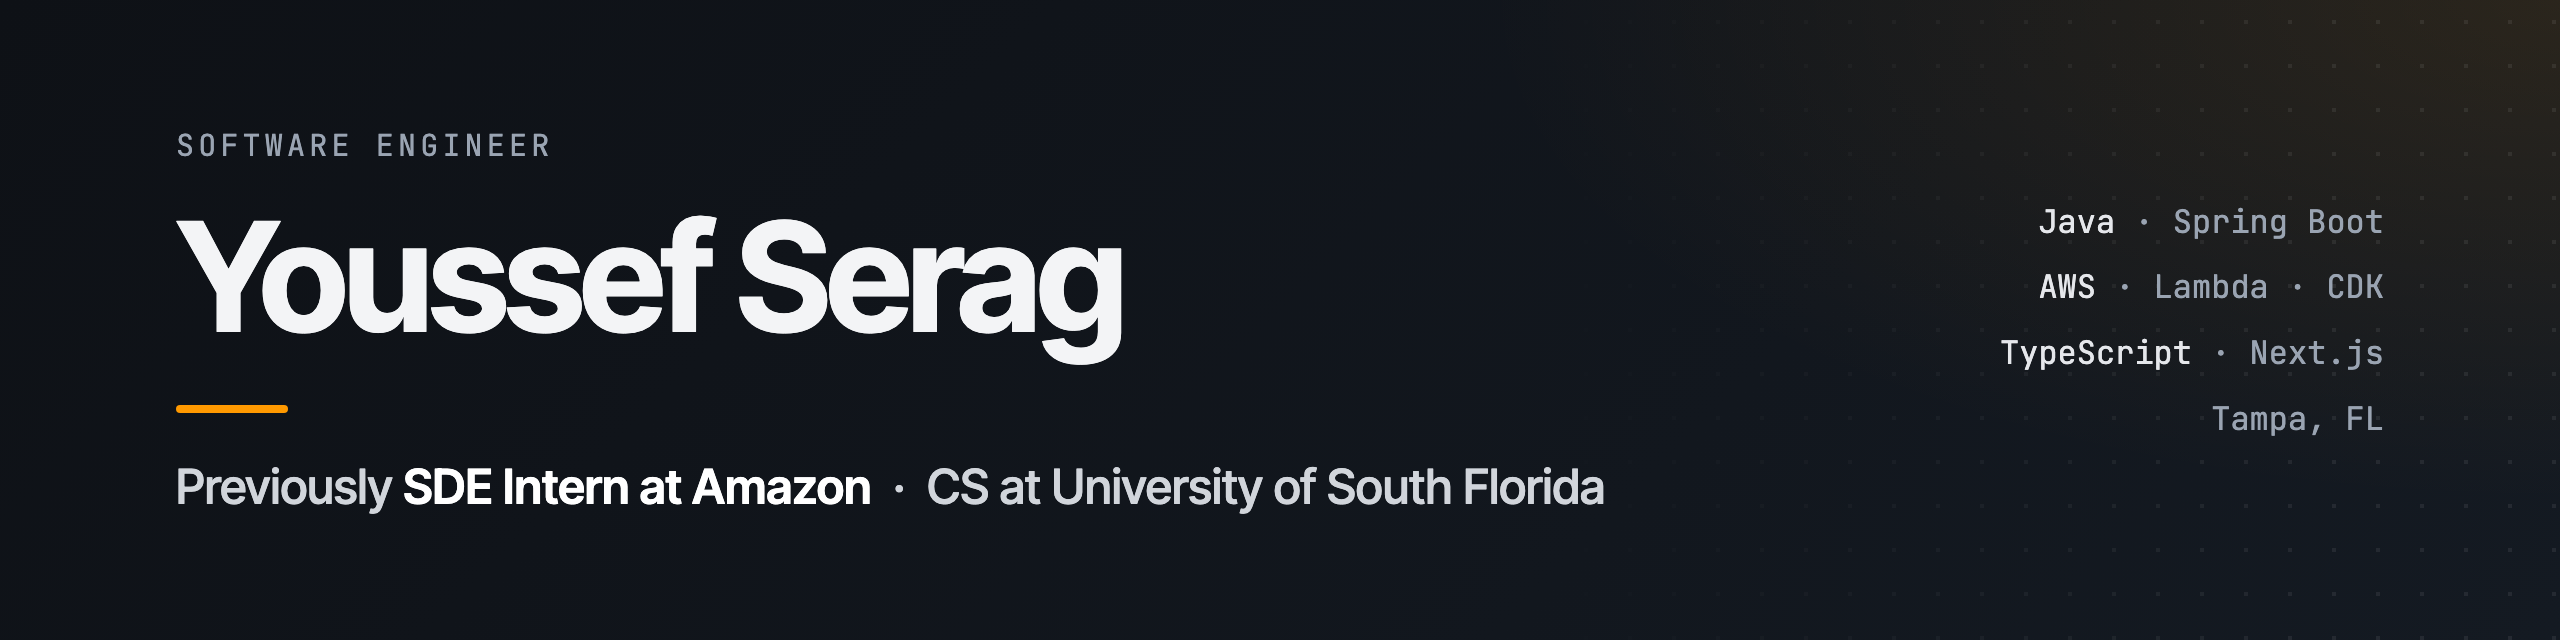
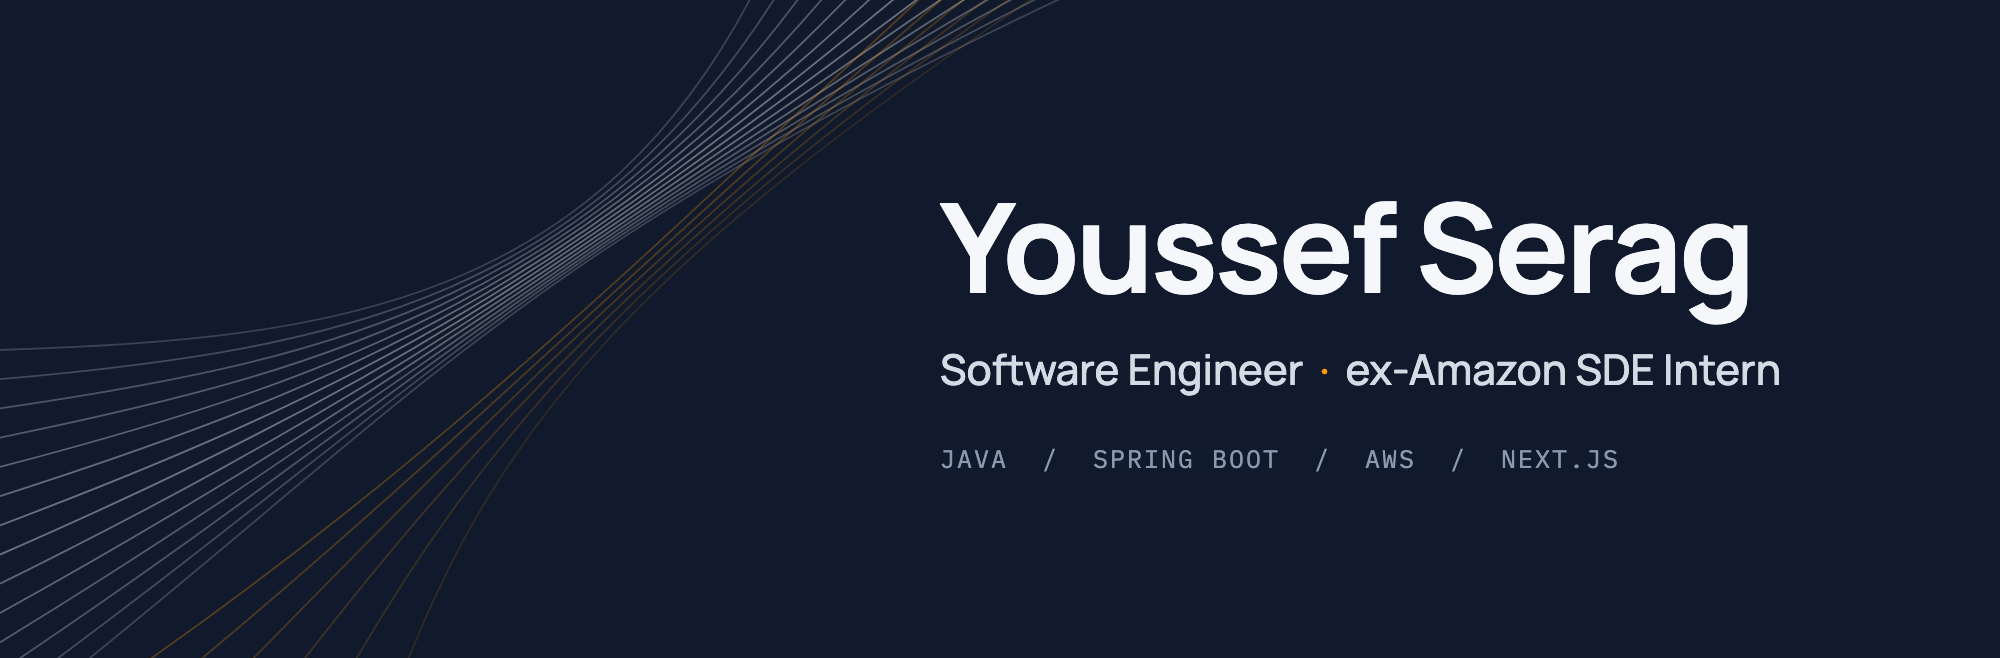
Restyle profile README after reference layout

diff --git a/README.md b/README.md
@@ -1,13 +1,60 @@
-<img src="./assets/banner.png" alt="Youssef Serag, Software Engineer" width="100%" />
-
 <p align="center">
-  <a href="https://linkedin.com/in/youssef-serag">LinkedIn</a> &nbsp;·&nbsp;
-  <a href="mailto:youssefserag7@gmail.com">youssefserag7@gmail.com</a> &nbsp;·&nbsp;
-  <a href="./Youssef_Serag_Resume.pdf">Download resume (PDF)</a>
+  <img src="./assets/banner.png" alt="Youssef Serag, Software Engineer, ex-Amazon SDE Intern" width="100%" />
 </p>
 
+<p align="center">
+  <a href="https://www.linkedin.com/in/youssef-serag"><img src="https://img.shields.io/badge/LinkedIn-111A2C?style=for-the-badge&logo=linkedin&logoColor=white" alt="LinkedIn" /></a>
+  <a href="mailto:youssefserag7@gmail.com"><img src="https://img.shields.io/badge/Email-1F6FEB?style=for-the-badge&logo=gmail&logoColor=white" alt="Email" /></a>
+  <a href="./Youssef_Serag_Resume.pdf"><img src="https://img.shields.io/badge/Resume-FF9900?style=for-the-badge&logo=readdotcv&logoColor=white" alt="Resume" /></a>
+</p>
+
+<p align="center">
+  <img src="https://readme-typing-svg.demolab.com?font=IBM+Plex+Mono&weight=600&size=24&duration=3500&pause=1200&color=FF9900&center=true&vCenter=true&width=720&lines=%24+building+backend+systems+that+scale.;%24+ex-Amazon+SDE+Intern.+350K+%E2%86%92+25K+incident+emails.;%24+Java+%C2%B7+Spring+Boot+%C2%B7+AWS.;%24+TA+for+140+Data+Structures+students." alt="Building backend systems that scale." />
+</p>
+
+## Hey, I'm Youssef
+
+I'm a Computer Science student at the **University of South Florida** (graduating December 2026), a former **Software Development Engineer Intern at Amazon**, and a **Teaching Assistant for Data Structures**. I like backend and cloud work most: services that handle real traffic, infrastructure defined as code, and tests that catch problems before users do.
+
+Right now I'm especially interested in:
+
+- backend services in Java and Spring Boot with clean, layered architecture
+- serverless and event-driven systems on AWS (Lambda, SQS, DynamoDB), deployed with CDK
+- full-stack products that use LLMs reliably, with validated, structured output
+- teaching data structures and helping other students get into software engineering
+
+## Highlights
+
+- 📦 **Amazon, SDE Intern**: built the List Price Nudging Tool, fixing duplicate seller emails across **14M** outdated prices and cutting incident email volume from **350K to 25K**
+- ☁ **AWS in production**: rewrote core **Lambda** functions in Java, deployed infrastructure with **CDK** across dev, beta, and prod, and built a CI/CD pipeline with JUnit/Mockito and security checks
+- 🧑🏫 **Teaching Assistant**: supporting a **140-student** Data Structures course at USF
+- 🚀 **Tech Lead, Google Developer Student Club**: helped organize **HackUSF** (300+ participants) and led Java workshops
+
+## Featured Projects
+
+| Project | What it is |
+| --- | --- |
+| [**PediaTrack**](https://github.com/seragy/pediatrack) | Clinician-guided patient recovery platform. Spring Boot backend with role-based access, rule-based symptom trend flags, and versioned REST APIs over PostgreSQL. |
+| [**PrepWise**](https://github.com/seragy/ai_mock_interviews) | AI voice interview platform with real-time interviews via VAPI and Gemini feedback. Zod validation cut malformed AI responses by **95%**. |
+| [**Bellini Classes**](https://github.com/seragy/bellini-classes) | Course scheduling platform for USF's scheduling committee, with a 9-rule data audit, semester comparison, and waitlist analysis. |
+| **The Last of Us: Legacy** | Turn-based zombie survival strategy game in Java Swing, backed by **250+ JUnit tests** at 85% coverage. |
+
+## Tech Stack
+
+<p align="center">
+  <img src="https://skillicons.dev/icons?i=java,spring,python,cpp,cs,ts,js,react,nextjs,nodejs,tailwind,postgres,mongodb,firebase,aws,git&perline=8" alt="Tech stack" />
+</p>
+
+**Cloud:** AWS Lambda · S3 · DynamoDB · SQS · CDK · CloudWatch · CI/CD
+
+**Testing:** JUnit · Mockito · Integration Testing
+
+**Design:** REST APIs · Object-Oriented Design · Role-Based Access Control
+
+## Resume
+
+<details>
+<summary><b>View my full resume</b></summary>
+<br/>
 <a href="./Youssef_Serag_Resume.pdf"><img src="./assets/resume.png" alt="Resume of Youssef Serag" width="100%" /></a>
-
-<p align="center">
-  <sub>Projects on the resume: <a href="https://github.com/seragy/pediatrack">PediaTrack</a> · <a href="https://github.com/seragy/ai_mock_interviews">PrepWise</a> · <a href="https://github.com/seragy/bellini-classes">Bellini Classes</a></sub>
-</p>
+</details>
